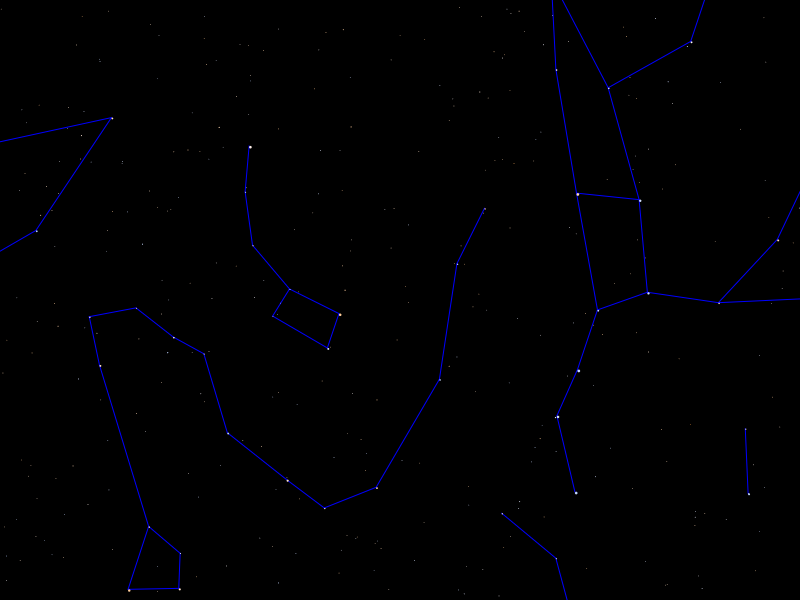
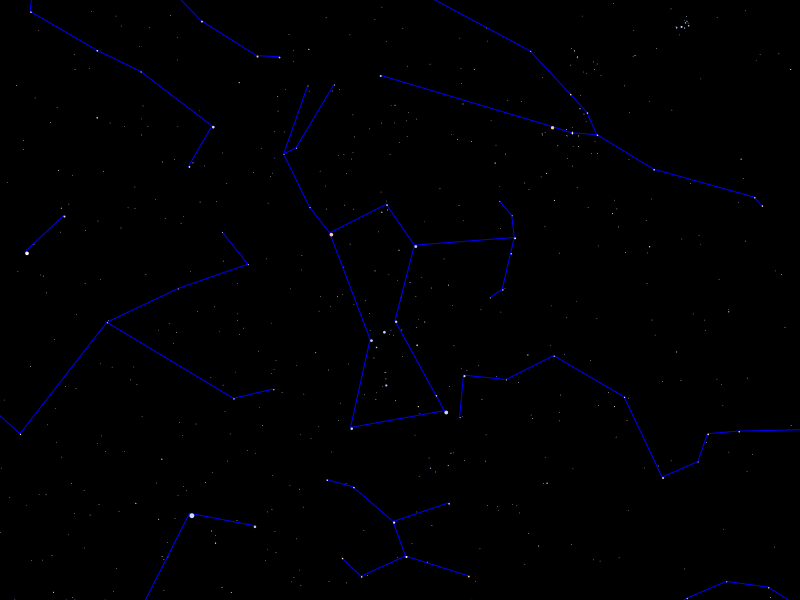
fixed stars problem - removed parallel line 97 of SkyCanvasPainter

diff --git a/src/ch/epfl/rigel/gui/DrawSky.java b/src/ch/epfl/rigel/gui/DrawSky.java
@@ -61,10 +61,10 @@ public final class DrawSky extends Application {
             ThreadManager.getGui().execute(
                     () ->
                     {
-                        //paint.drawAsterisms(sky, transform);
-                        paint.drawSun(sky, proj, transform);
+                        paint.drawAsterisms(sky, transform);
                         paint.drawStars(sky, proj, transform);
                         paint.drawPlanets(sky, proj, transform);
+                        paint.drawSun(sky, proj, transform);
                         paint.drawMoon(sky, proj, transform);
                         paint.drawHorizon(sky, proj, transform);});
 

diff --git a/src/ch/epfl/rigel/gui/SkyCanvasPainter.java b/src/ch/epfl/rigel/gui/SkyCanvasPainter.java
@@ -89,7 +89,7 @@ public class SkyCanvasPainter {
     }
 
     private <T extends CelestialObject> Stream<Map.Entry<T, CartesianCoordinates>> applyTransform(final Stream<Map.Entry<T, CartesianCoordinates>> positions, Transform t) {
-        return positions.parallel().map(e -> Map.entry(e.getKey(), transformedCartesCoords(e.getValue(), t)));
+        return positions.map(e -> Map.entry(e.getKey(), transformedCartesCoords(e.getValue(), t)));
     }
 
     private <T extends CelestialObject> void drawCelestial(final Stream<Map.Entry<T, CartesianCoordinates>> positions,
